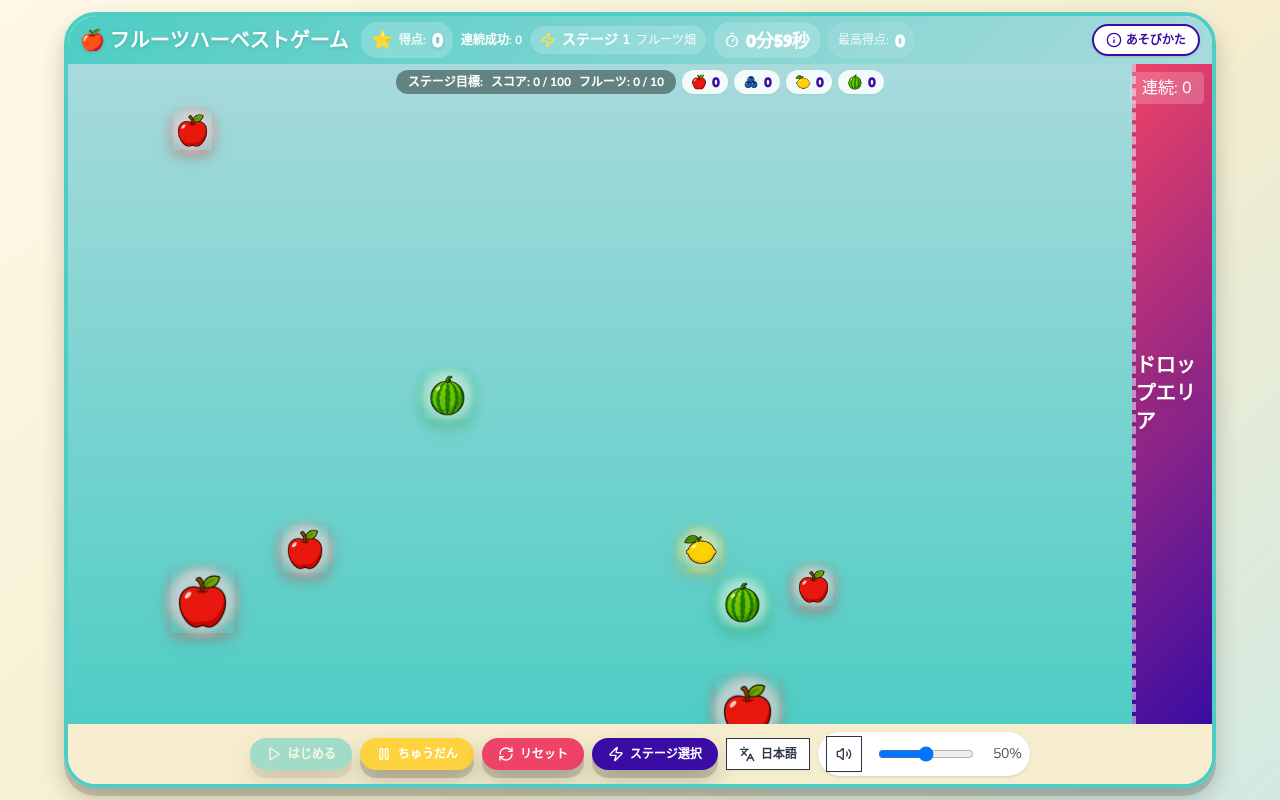
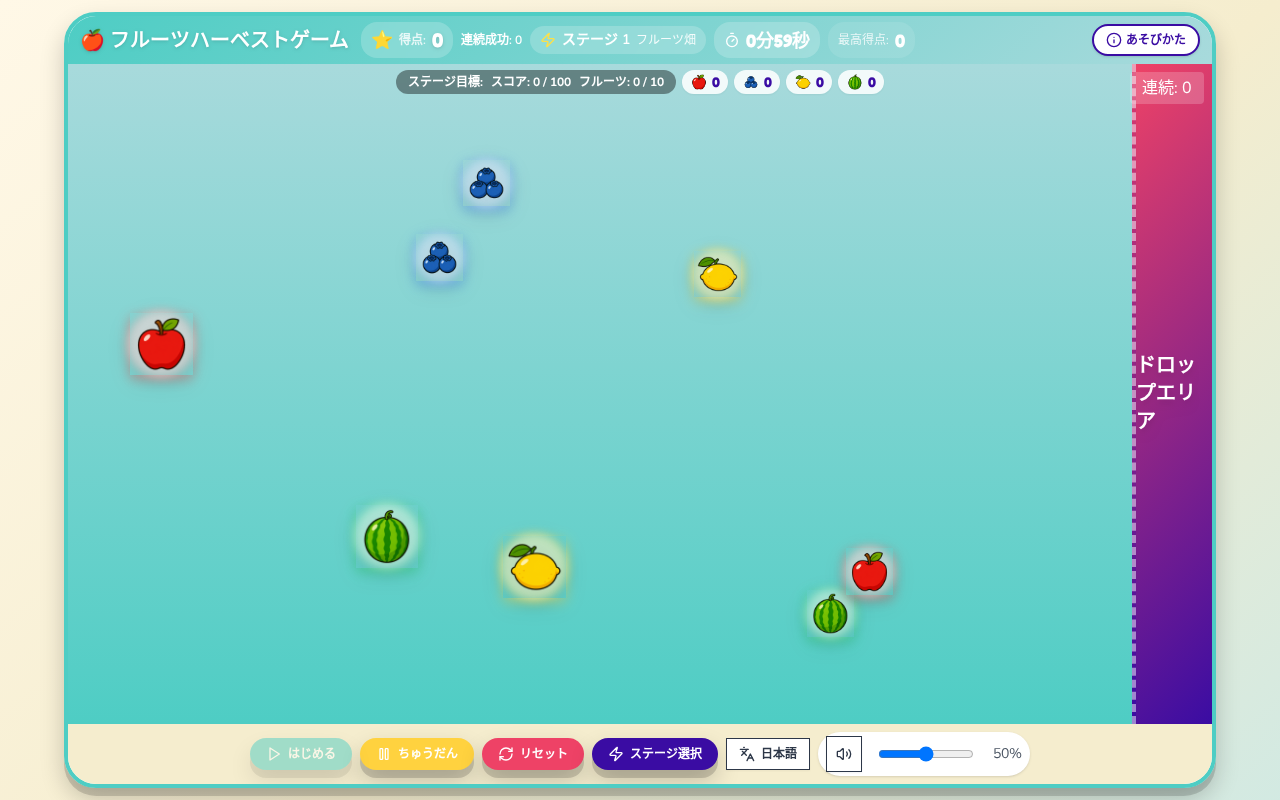
fix: 結果画面の操作名を日本語にし、読みやすく整える
スクリーンショットを撮って気づいた問題。結果画面が
「click: 4 / doubleClick: 0」のように内部の識別子をそのまま
表示しており、小学生向けの日本語UIとして成立していなかった。

- 操作名を日本語＋アイコンで表示（クリック / ダブルクリック /
  右クリック / ドラッグ）
- 成功回数に「かい」の単位を付ける
- 前回比較を矢印だけでなく「ふえた / へった / おなじ」の言葉でも伝え、
  増えたときは緑にする
- 初回プレイでは前回比較を出さない
  （比べる相手がいないのに「おなじ」と出ると誤解を生む）
- 星は獲得数にかかわらず3つ分（★☆☆）表示し、あと何個かを示す
  以前は0個のとき「—」だけで、何のことか分からなかった
- 成功回数と前回比較を1行にまとめ、2つのリストを往復せず読めるようにした
- ボタンと見出しをゲーム本体のデザイントークンに合わせた

## 重複していた定義を共通化

操作名（クリック等）が MasteryDisplay と DailyPracticeCard に
同じ内容で重複していた。types/gamification.ts の OPERATION_LABELS に
まとめ、結果画面を含む3箇所で共有する。

テスト6件を追加（TDDで先に失敗を確認）。ユニット675件・E2E49件が通過。
スクリーンショットも撮り直した。

Claude-Session: https://claude.ai/code/session_01Px1Wc29YVQhjBD3Sju8vAg

diff --git a/components/game/ResultModal.tsx b/components/game/ResultModal.tsx
@@ -1,11 +1,17 @@
 'use client'
 
 import React from 'react'
-import { SessionOperationStats, StarRating } from '@/types/gamification'
+import { SessionOperationStats, StarRating, OPERATION_LABELS } from '@/types/gamification'
 import { compareSessionSuccess, getEncouragementMessage } from '@/lib/gamificationManager'
 
-const STAT_KEYS = ['click', 'doubleClick', 'rightClick', 'drop'] as const
-const DELTA_SYMBOL = { up: '↑', down: '↓', same: '→' } as const
+const MAX_STARS = 3
+
+/** 前回と比べてどうだったかを、矢印と言葉の両方で伝える */
+const DELTA_DISPLAY = {
+  up: { symbol: '↑', label: 'ふえた', className: 'text-green-600' },
+  down: { symbol: '↓', label: 'へった', className: 'text-gray-500' },
+  same: { symbol: '→', label: 'おなじ', className: 'text-gray-500' },
+} as const
 
 export interface ResultModalProps {
   open: boolean
@@ -39,7 +45,8 @@ export function ResultModal({
   if (!open) return null
 
   const encouragement = getEncouragementMessage(starRating)
-  const deltas = compareSessionSuccess(sessionStats, lastSessionStats)
+  // 前回がなければ比較しない（比べる相手がいないのに「おなじ」と出ると誤解を生む）
+  const deltas = lastSessionStats ? compareSessionSuccess(sessionStats, lastSessionStats) : null
 
   return (
     <div
@@ -48,36 +55,71 @@ export function ResultModal({
       aria-labelledby="result-modal-title"
       className="fixed inset-0 z-50 flex items-center justify-center bg-black/40 p-4"
     >
-      <div className="max-w-lg w-full rounded-xl bg-white p-6 shadow-xl">
-        <h2 id="result-modal-title" className="text-2xl font-bold mb-2">
+      <div className="max-w-lg w-full rounded-[var(--radius-xl)] bg-white p-6 shadow-xl">
+        <h2
+          id="result-modal-title"
+          className="text-display text-2xl font-bold mb-1 text-center"
+          style={{ color: 'var(--color-primary)' }}
+        >
           {labels.title}
         </h2>
-        <p className="mb-4 text-gray-700" data-testid="encouragement-message">
+
+        {/* 獲得数にかかわらず3つ分の枠を見せて、あと何個かが分かるようにする */}
+        <div
+          className="mb-2 text-center text-3xl tracking-widest"
+          data-testid="star-rating-display"
+          aria-label={`${labels.stars} ${starRating} / ${MAX_STARS}`}
+        >
+          <span className="text-yellow-400">{'★'.repeat(starRating)}</span>
+          <span className="text-gray-300">{'☆'.repeat(MAX_STARS - starRating)}</span>
+        </div>
+
+        <p
+          className="mb-5 text-center text-lg font-bold text-gray-700"
+          data-testid="encouragement-message"
+        >
           {encouragement}
         </p>
-        <div className="mb-4" data-testid="star-rating-display" aria-label={labels.stars}>
-          {'★'.repeat(starRating)}
-          {starRating === 0 && <span className="text-gray-400">—</span>}
-        </div>
+
         <div data-testid="session-success-counts" aria-label={labels.successCounts}>
-          <ul className="space-y-1 text-sm">
-            {STAT_KEYS.map(key => (
-              <li key={key} data-testid={`success-${key}`}>{key}: {sessionStats[key].success}</li>
-            ))}
+          <div className="text-sm font-bold text-gray-500 mb-2">{labels.successCounts}</div>
+          <ul className="space-y-1">
+            {OPERATION_LABELS.map(({ key, icon, name }) => {
+              const delta = deltas ? DELTA_DISPLAY[deltas[key]] : null
+
+              return (
+                <li
+                  key={key}
+                  className="flex items-center gap-2 rounded-[var(--radius-md)] bg-gray-50 px-3 py-2"
+                >
+                  <span aria-hidden>{icon}</span>
+                  <span className="flex-1 font-semibold">{name}</span>
+                  <span className="font-bold tabular-nums" data-testid={`success-${key}`}>
+                    {sessionStats[key].success}かい
+                  </span>
+                  {delta && (
+                    <span
+                      className={`w-20 text-right text-sm font-semibold ${delta.className}`}
+                      data-testid={`delta-${key}`}
+                    >
+                      {delta.symbol} {delta.label}
+                    </span>
+                  )}
+                </li>
+              )
+            })}
           </ul>
+          {deltas && (
+            <div className="mt-2 text-xs text-gray-500 text-right" aria-hidden>
+              {labels.comparison}
+            </div>
+          )}
         </div>
-        <div className="mt-4" data-testid="comparison-deltas" aria-label={labels.comparison}>
-          <ul className="space-y-1 text-sm">
-            {STAT_KEYS.map(key => (
-              <li key={key} data-testid={`delta-${key}`}>
-                {key}: {DELTA_SYMBOL[deltas[key]]}
-              </li>
-            ))}
-          </ul>
-        </div>
+
         <button
           type="button"
-          className="mt-6 rounded-lg bg-blue-600 px-4 py-2 text-white"
+          className="mt-6 w-full rounded-[var(--radius-full)] px-4 py-3 text-white font-bold text-display shadow-playful"
+          style={{ backgroundColor: 'var(--color-secondary)' }}
           onClick={onClose}
         >
           {labels.close}

diff --git a/components/__tests__/gamification/ResultModal.test.tsx b/components/__tests__/gamification/ResultModal.test.tsx
@@ -71,4 +71,79 @@ describe('ResultModal', () => {
     fireEvent.click(screen.getByRole('button', { name: /とじる/ }))
     expect(onClose).toHaveBeenCalled()
   })
+
+  describe('子どもに伝わる表示', () => {
+    it('操作名が日本語で表示される', () => {
+      const session = createEmptySessionStats()
+      render(
+        <ResultModal open sessionStats={session} starRating={1} lastSessionStats={null} onClose={() => {}} />
+      )
+
+      // click / doubleClick のような英語の識別子をそのまま見せない
+      expect(screen.getByText('クリック')).toBeInTheDocument()
+      expect(screen.getByText('ダブルクリック')).toBeInTheDocument()
+      expect(screen.getByText('右クリック')).toBeInTheDocument()
+      expect(screen.getByText('ドラッグ')).toBeInTheDocument()
+      expect(screen.queryByText(/doubleClick|rightClick/)).not.toBeInTheDocument()
+    })
+
+    it('成功回数に単位がつく', () => {
+      const session = createEmptySessionStats()
+      session.click.success = 5
+      render(
+        <ResultModal open sessionStats={session} starRating={1} lastSessionStats={null} onClose={() => {}} />
+      )
+
+      expect(screen.getByTestId('success-click')).toHaveTextContent('5かい')
+    })
+
+    it('前回比較は矢印だけでなく言葉でも伝える', () => {
+      const prev = createEmptySessionStats()
+      prev.click.success = 1
+      prev.doubleClick.success = 5
+      const cur = createEmptySessionStats()
+      cur.click.success = 4
+      cur.doubleClick.success = 2
+
+      render(
+        <ResultModal open sessionStats={cur} starRating={1} lastSessionStats={prev} onClose={() => {}} />
+      )
+
+      expect(screen.getByTestId('delta-click')).toHaveTextContent('ふえた')
+      expect(screen.getByTestId('delta-doubleClick')).toHaveTextContent('へった')
+      expect(screen.getByTestId('delta-rightClick')).toHaveTextContent('おなじ')
+    })
+
+    it('初回プレイでは前回比較を出さない', () => {
+      // 比べる相手がいないのに「おなじ」と出ると誤解を生む
+      render(
+        <ResultModal
+          open
+          sessionStats={createEmptySessionStats()}
+          starRating={1}
+          lastSessionStats={null}
+          onClose={() => {}}
+        />
+      )
+
+      expect(screen.queryByTestId('delta-click')).not.toBeInTheDocument()
+    })
+
+    it('星は獲得数にかかわらず3つ分の枠を見せる', () => {
+      render(
+        <ResultModal open sessionStats={base} starRating={1} lastSessionStats={null} onClose={() => {}} />
+      )
+
+      const stars = screen.getByTestId('star-rating-display').textContent ?? ''
+      expect(stars).toBe('★☆☆')
+    })
+
+    it('星0でも枠は3つ表示する', () => {
+      render(
+        <ResultModal open sessionStats={base} starRating={0} lastSessionStats={null} onClose={() => {}} />
+      )
+
+      expect(screen.getByTestId('star-rating-display')).toHaveTextContent('☆☆☆')
+    })
+  })
 })

diff --git a/components/game/MasteryDisplay.tsx b/components/game/MasteryDisplay.tsx
@@ -2,19 +2,12 @@
 
 import React from 'react'
 import type { CumulativeOperationStats, MasteryLevel, OperationMasteryData } from '@/types/gamification'
-import { MASTERY_THRESHOLDS } from '@/types/gamification'
+import { MASTERY_THRESHOLDS, OPERATION_LABELS } from '@/types/gamification'
 import type { InteractionType } from '@/types/game'
 
 const MASTERY_LABELS: Record<MasteryLevel, string> = Object.fromEntries(
   MASTERY_THRESHOLDS.map(t => [t.level, t.label])
 ) as Record<MasteryLevel, string>
-
-const OPERATIONS: { key: InteractionType; icon: string; name: string }[] = [
-  { key: 'click', icon: '🖱', name: 'クリック' },
-  { key: 'doubleClick', icon: '⚡', name: 'ダブルクリック' },
-  { key: 'rightClick', icon: '🎯', name: '右クリック' },
-  { key: 'drop', icon: '🧲', name: 'ドラッグ' },
-]
 
 export interface MasteryDisplayProps {
   masteryLevels: OperationMasteryData
@@ -27,7 +20,7 @@ export interface MasteryDisplayProps {
 export function MasteryDisplay({ masteryLevels, masteryProgress, cumulativeStats }: MasteryDisplayProps): React.ReactElement {
   return (
     <div data-testid="mastery-display" className="grid gap-3">
-      {OPERATIONS.map(({ key, icon, name }) => {
+      {OPERATION_LABELS.map(({ key, icon, name }) => {
         const level = masteryLevels[key]
         const label = MASTERY_LABELS[level]
         const prog = masteryProgress[key]

diff --git a/components/game/DailyPracticeCard.tsx b/components/game/DailyPracticeCard.tsx
@@ -2,13 +2,7 @@
 
 import React from 'react'
 import type { DailyGoal } from '@/types/gamification'
-
-const OPERATIONS = [
-  { key: 'click' as const, icon: '🖱', name: 'クリック' },
-  { key: 'doubleClick' as const, icon: '⚡', name: 'ダブルクリック' },
-  { key: 'rightClick' as const, icon: '🎯', name: '右クリック' },
-  { key: 'drop' as const, icon: '🧲', name: 'ドラッグ' },
-]
+import { OPERATION_LABELS } from '@/types/gamification'
 
 export interface DailyPracticeCardProps {
   todayGoals: DailyGoal
@@ -31,7 +25,7 @@ export function DailyPracticeCard({ todayGoals, isGoalComplete, practiceStreak }
         {isGoalComplete ? 'クリア！' : 'がんばろう！'}
       </div>
       <ul className="space-y-2">
-        {OPERATIONS.map(({ key, icon, name }) => (
+        {OPERATION_LABELS.map(({ key, icon, name }) => (
           <li
             key={key}
             data-testid={`daily-goal-${key}`}

diff --git a/types/gamification.ts b/types/gamification.ts
@@ -145,3 +145,17 @@ export interface DailyPracticeData {
 
 export const DAILY_PRACTICE_STORAGE_KEY = 'dailyPracticeData'
 export const DAILY_PRACTICE_VERSION = 1
+
+/**
+ * 4つのマウス操作の表示用ラベル。
+ *
+ * click / doubleClick のような識別子は画面に出さない。
+ * 小学生が読むので、名前は日本語、アイコンは一目で区別できるものにする。
+ * 熟達レベル・きょうのれんしゅう・結果画面で共通して使う。
+ */
+export const OPERATION_LABELS: { key: InteractionType; icon: string; name: string }[] = [
+  { key: 'click', icon: '🖱', name: 'クリック' },
+  { key: 'doubleClick', icon: '⚡', name: 'ダブルクリック' },
+  { key: 'rightClick', icon: '🎯', name: '右クリック' },
+  { key: 'drop', icon: '🧲', name: 'ドラッグ' },
+]
